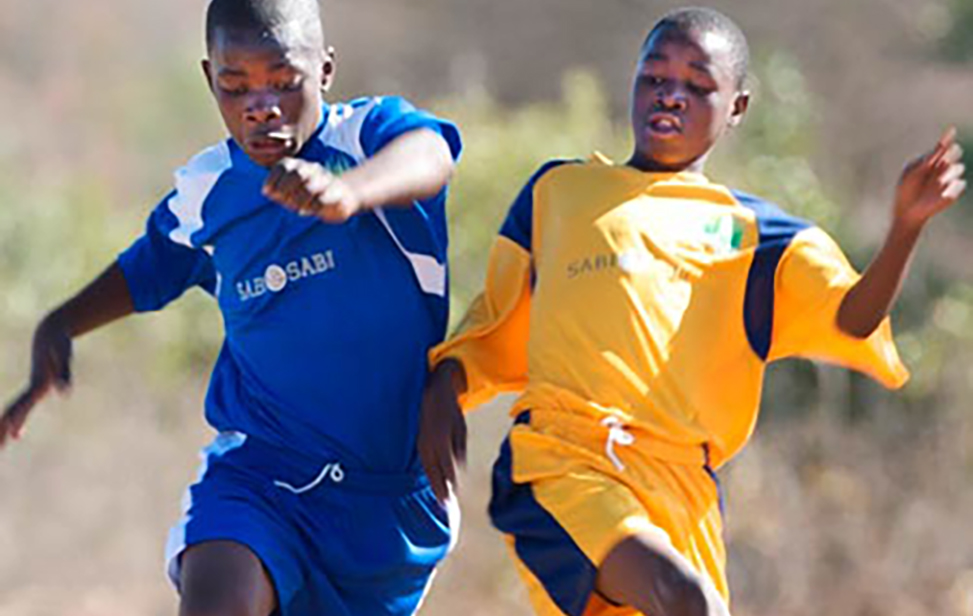
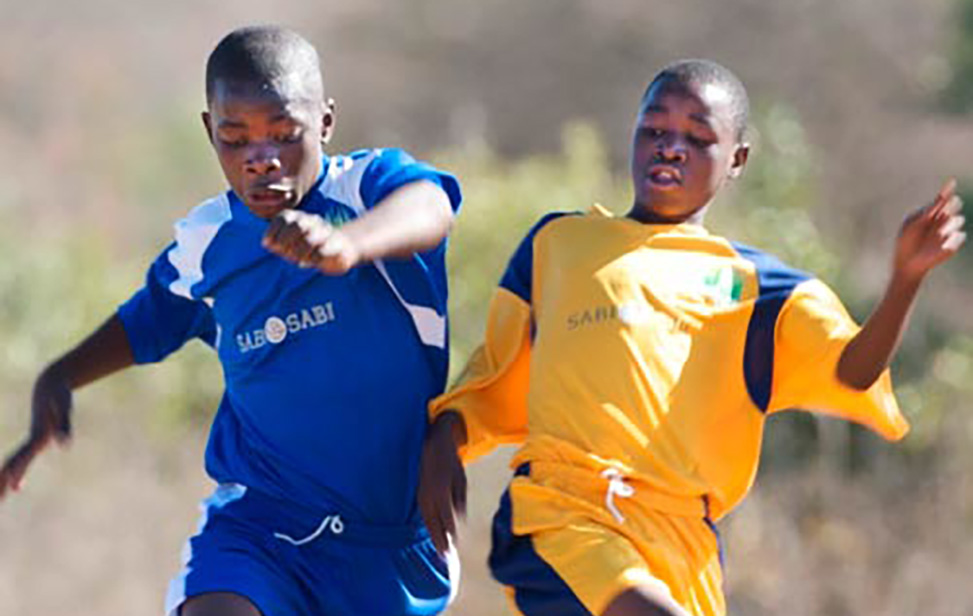
more mobile fixes from note pad

diff --git a/current_projects.html b/current_projects.html
@@ -123,14 +123,14 @@
 				</div>
 				<div class="item">
 					<!-- Slider 2. -->
-					<div class="fill" style="background-image:url('assets/img/General/Huntington1.jpg ');"></div>
+					<div id="Huntington1Cropped" class="fill" style="background-image:url('assets/img/General/Huntington1.jpg ');"></div>
 					<div class="carousel-caption">
 						<p class="Community_Conservation">Growing Custodians Of Our Natural Heritage</p>
 					</div>
 				</div>
 				<div class="item">
 					<!-- Slider 3. -->
-					<div class="fill" style="background-image:url('assets/img/General/Huntington3.jpg');"></div>
+					<div id="Huntington3Cropped" class="fill" style="background-image:url('assets/img/General/Huntington3.jpg');"></div>
 					<div class="carousel-caption">
 						<p class="Community_Conservation">Growing Custodians Of Our Natural Heritage</p>
 					</div>
@@ -174,7 +174,7 @@
             <div class="item active">
                 <!-- Slider 1. -->
                 <div class="fill">
-                    <div class="text-center margin-bottom-60 margin-bottom-30">
+                    <div class="text-center margin-bottom-60 margin-bottom-30 scrollOnMobile">
                         <h1 id="sabiTitle" class="sabiTitleMobile">Mazinyane Pre-School <br/> (Huntington)</h1>
                         <p class="whoWeAreText padding-2 padding-5 whoWeAreTextResponsive">
 							Mazinyane is a pre-school that focuses on supplying healthy meals to pre-schoolers as well as focussing on teaching English languages skills preparing children for schooling years ahead. In conjunction with Reservations Africa this school opened in 2002, with the day to day co-ordination and assistance managed through the foundation and the community team from Sabi Sabi.  What originally started with 85 children has now grown to 350-450 – with 5 classrooms and a total of 18 staff.
@@ -190,7 +190,7 @@
             <div class="item">
                 <!-- Slider 2. -->
                 <div class="fill">
-                    <div class="text-center margin-bottom-60 margin-bottom-30">
+                    <div class="text-center margin-bottom-60 margin-bottom-30 scrollOnMobile">
                         <h1 id="sabiTitle" class="sabiTitleMobile">Lillydale Digital Learning Centre <br/> (Lillydale)</h1>
                         <p class="whoWeAreText margin-2-top padding-5 whoWeAreTextResponsive">
 							In this technological age, life without access to the internet or smart devices means not being able to stay up-to-date with news and global developments, no contact via social media platforms and no opportunity to further your career by compiling a CV, on a word-processing programme and e-mailing it to the appropriate recipient.					
@@ -221,7 +221,7 @@
             <div class="item">
                 <!-- Slider 3. -->
                 <div class="fill">
-                    <div class="text-center margin-bottom-60 margin-bottom-30">
+                    <div class="text-center margin-bottom-60 margin-bottom-30 scrollOnMobile">
                         <h1 id="sabiTitle" class="sabiTitleMobile">Swa Vana Care Centre <br/> (Huntington)</h1>
                         <p class="whoWeAreText padding-2 padding-5 whoWeAreTextResponsive">
 							Orphans and vulnerable children living in rural communities face tremendous challenges and the Swa Vana Care Centre is a Sabi Sabi Foundation supported initiative operating within the community. It comprises a care centre for HIV orphans and vulnerable youth, where day care facilities are available for children living with guardians. The centre delivers meals, educational activities and a safe after-school environment for children.  
@@ -243,7 +243,7 @@
             <div class="item">
                 <!-- Slider 4. -->
                 <div class="fill">
-                    <div class="text-center margin-bottom-60 margin-bottom-30">
+                    <div class="text-center margin-bottom-60 margin-bottom-30 scrollOnMobile">
                         <h1 id="sabiTitle" class="sabiTitleMobile">The Dreamfields Project</h1>
                         <p class="whoWeAreText padding-2 padding-5 whoWeAreTextResponsive">
 							Since 2008, a partnership between Sabi Sabi and Dreamfields has offered opportunities to rural school children through encouraging team participation in two very popular sports – soccer and netball.  At Sabi Sabi, we believe that teamwork, whether through sports or in the workplace, builds character and discourages being drawn into negative environments and influences.  This initiative has grown exponentially since our partnership. <br/> <br/>
@@ -260,7 +260,7 @@
             <div class="item">
                 <!-- Slider 5. -->
                 <div class="fill">
-                    <div class="text-center margin-bottom-60 margin-bottom-30">
+                    <div class="text-center margin-bottom-60 margin-bottom-30 scrollOnMobile">
                         <h1 id="sabiTitle" class="sabiTitleMobile">Sabi Sabi Chef Mentorship Programme</h1>
                         <p class="whoWeAreText padding-2 padding-5 whoWeAreTextResponsive">
 							Since 2015 Sabi Sabi has supported a culinary educational programme originally proposed by Wilfred Mtshali, Head Chef at Sabi Sabi Bush Lodge.  Chef Wilfred realised that there was untapped talent going to waste within the community. Without training, school leaving youngsters showing interest in entering the culinary field had no chance of a future within the industry and together with Sabi Sabi Wilfred has provided support to mentor and teach a new generation of chefs.
@@ -280,7 +280,7 @@
             <div class="item">
                 <!-- Slider 5. -->
                 <div class="fill">
-                    <div class="text-center margin-bottom-60 margin-bottom-30">
+                    <div class="text-center margin-bottom-60 margin-bottom-30 scrollOnMobile">
                         <h1 id="sabiTitle" class="sabiTitleMobile">Community Visits</h1>
                         <p class="whoWeAreText padding-2 padding-5 whoWeAreTextResponsive">
 							Sabi Sabi operates a very popular Community Tour, which is aimed at giving our guests the opportunity of visiting our local community and experiencing first-hand the projects we support.  This also provides funding by way of a nominal fee that is charged for the tour, of which all proceeds are allocated to the Sabi Sabi Foundation fund and allocated to the needs of these community projects.  These tours are overseen and operated by our Community Liaison Officer – Clerence Mkansi – who is a second generation Sabi Sabi family member, being the son of one of Sabi Sabi’s long-standing stalwart trackers.

diff --git a/contact.html b/contact.html
@@ -115,7 +115,7 @@
 			<div class="carousel-inner">
 				<div class="item active">
 					<!-- Slider 1. -->
-					<div class="fill" style="background-image:url('assets/img/General/Huntington3.jpg')"></div>
+					<div id="Huntington3Cropped" class="fill" style="background-image:url('assets/img/General/Huntington3.jpg')"></div>
 					<div class="carousel-caption">
 						<p class="Community_Conservation">Growing Custodians Of Our Natural Heritage</p>
 					</div>
@@ -129,7 +129,7 @@
 				</div>
 				<div class="item">
 					<!-- Slider 3. -->
-					<div class="fill" style="background-image:url('assets/img/General/Huntington1.jpg');"></div>
+					<div id="Huntington1Cropped" class="fill" style="background-image:url('assets/img/General/Huntington1.jpg');"></div>
 					<div class="carousel-caption">
 						<p class="Community_Conservation">Growing Custodians Of Our Natural Heritage</p>
 					</div>
@@ -277,7 +277,7 @@
         <div class="col-md-5 donateDetails">
             <h3 class="text-center donateText">Physical Deposit</h3>
             <p class="text-center smallDonate donateText">(Cheques and Cash) done at Absa Branches</p>
-            <p class="text-center donateText">
+            <p class="text-center donateText addPaddingBottomTablet">
                 Bank: ABSA Bank <br/>
                 Branch Code: 632005 (Same for all ABSA branches) <br/>
                 Account no: 01043960306 <br/>

diff --git a/assets/js/custom.js b/assets/js/custom.js
@@ -10,3 +10,33 @@ function openNav() {
   function closeNav() {
     document.getElementById("responsiveNavbar").style.height = "0%";
   }
+
+  function SwapImage(){
+    var w = Math.max(document.documentElement.clientWidth, window.innerWidth || 0),
+
+        h = Math.max(document.documentElement.clientHeight, window.innerHeight || 0),
+
+        Huntington1Cropped = document.getElementById('Huntington1Cropped');
+        Huntington3Cropped = document.getElementById('Huntington3Cropped');
+
+    // use conditionals to decide which image to show
+    if(w < 420 && h < 815)
+    {
+      Huntington1Cropped.style.backgroundImage = "url('assets/img/General/Huntington1Cropped.jpg')";
+
+      Huntington3Cropped.style.backgroundImage = "url('assets/img/General/Huntington3Cropped.jpg')";
+    }
+
+    if(w > 420 && h > 815)
+    {
+      Huntington1Cropped.style.backgroundImage = "url('assets/img/General/Huntington1.jpg')";
+
+      Huntington3Cropped.style.backgroundImage = "url('assets/img/General/Huntington3.jpg')";
+    }
+}
+
+SwapImage();
+
+$(window).resize(function() {
+  SwapImage();
+});

diff --git a/assets/css/custom.css b/assets/css/custom.css
@@ -517,6 +517,11 @@ body
         font-size: 50px;
     }
 
+    .addPaddingBottomTablet
+    {
+        padding-bottom: 4vh;
+    }
+
 }
 
 
@@ -737,7 +742,13 @@ body
 
     .whoWeAreTextResponsive
     {
-        font-size: 12px;
+        font-size: 14px;
+    }
+
+    .scrollOnMobile
+    {
+        height: 600px;
+        overflow-y: scroll;
     }
     
     #CurrentProjectsButtons {
@@ -746,7 +757,7 @@ body
         position: relative;
         top: 4vh;
         font-family: Century_Gothic;
-        font-size: 10px;
+        font-size: 12px;
     }
 
     .currentProjectsDividerResp
@@ -756,7 +767,7 @@ body
 
     .sabiTitleMobile
     {
-        font-size: 15px !important;
+        font-size: 24px !important;
     }
 
     .padding-5
@@ -783,6 +794,11 @@ body
         right: 2vw;
         width: 350px;
         height: auto;
+    }
+
+    .donateText
+    {
+        font-size: 13px;
     }
 }
 

diff --git a/new_projects.html b/new_projects.html
@@ -247,7 +247,7 @@
                 <img id="donateImage" class="img-responsive" src="assets/img/Water/water1_About.jpg" alt="Image of little girl by a water tap">
             </div>
             <div id="vertical-center-generous" class="col-md-6">
-                <h1 class="text-center">Be A Part <br/>Of Our Vision</h1>
+                <h1 class="text-center">Be Part <br/>Of Our Vision</h1>
 				<p  class="text-center" id="feelingGenerousText">The Sabi Sabi Foundation's vision is to grow custodians of our natural heritage - to create custodianship through education, employment and conservation. Be a part of the vision and help us improve the lives of others and our environment.</p>
                 <a href="about.html#donateAboutSection" id="donateButton" class="btn-u revertedButton contactButton rounded btn-u-lg text-center left-20" type="submit">Donate</a>
             </div>

diff --git a/about.html b/about.html
@@ -296,7 +296,7 @@
         <div class="col-md-5 donateDetails">
             <h3 class="text-center donateText">Physical Deposit</h3>
             <p class="text-center smallDonate donateText">(Cheques and Cash) done at Absa Branches</p>
-            <p class="text-center donateText">
+            <p class="text-center donateText addPaddingBottomTablet">
                 Bank: ABSA Bank <br/>
                 Branch Code: 632005 (Same for all ABSA branches) <br/>
                 Account no: 01043960306 <br/>
